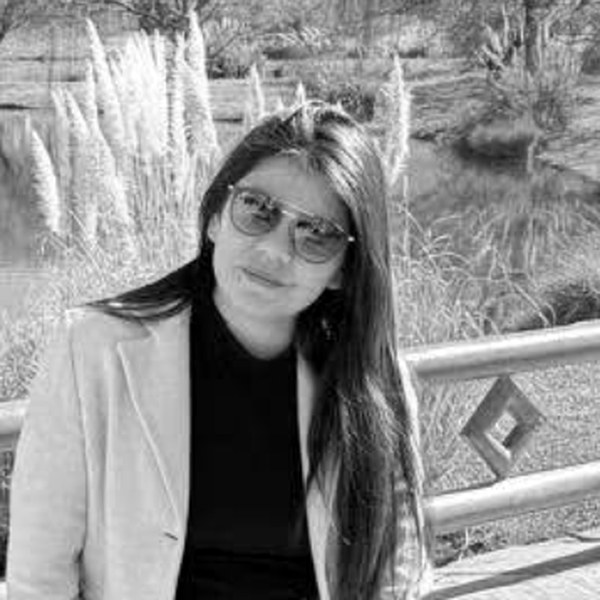
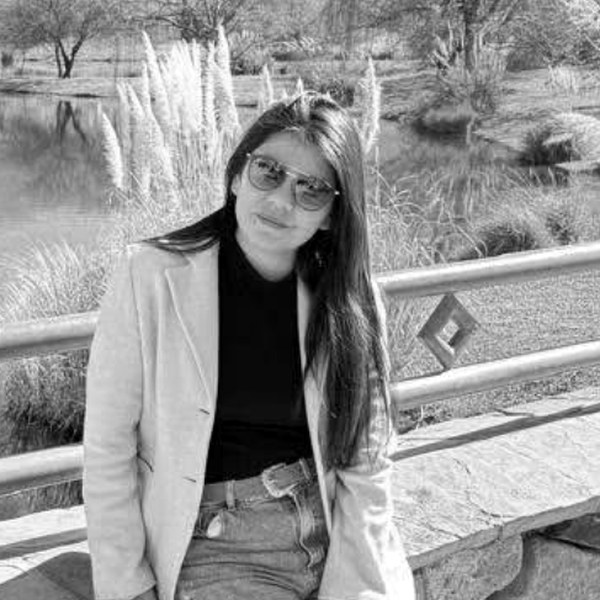
Equipo: las fotos entran de a una al llegar a la sección, el carrusel arranca recién ahí, pasa cada 6 s y se frena fuera de pantalla; Rocío y Josefina más alejadas para mejor nitidez
Claude-Session: https://claude.ai/code/session_01NxYopAPyeNSDw7qWxwq7yf

diff --git a/index.html b/index.html
@@ -192,6 +192,9 @@
   .persona__foto { position: relative; width: min(84%, 300px); aspect-ratio: 1; margin: 10px auto 0; border-radius: 50%; overflow: hidden; border: 6px solid #fff; outline: 3px solid var(--rojo); outline-offset: 4px; background: var(--negro) url("assets/papel-negro.jpg") center / cover; box-shadow: 0 10px 24px rgba(0,0,0,.18); display: flex; align-items: flex-end; justify-content: center; }
   .persona__foto img { width: 100%; height: 100%; object-fit: cover; object-position: center 20%; filter: grayscale(1); }
   .persona--sin-foto .persona__foto svg { width: 70%; height: auto; fill: rgba(255,255,255,.16); }
+  /* Entrada de a uno cuando la sección aparece en pantalla */
+  .equipo__pista .persona { opacity: 0; transform: translateY(40px) scale(.9); transition: opacity .9s ease, transform 1s cubic-bezier(.2,.8,.2,1); transition-delay: calc(var(--n, 0) * 380ms); }
+  .equipo__carrusel.entro .persona { opacity: 1; transform: none; }
   .persona h3 { position: relative; display: inline-block; margin-top: -16px; padding: 4px 14px; background: var(--rojo); color: #fff; font-size: clamp(13px, 1.7vw, 22px); font-weight: 900; }
   .persona p { margin-top: 6px; font-weight: 500; font-size: clamp(12px, 1.3vw, 16px); }
   .persona a { display: inline-block; margin-top: 2px; color: var(--rojo); font-weight: 700; text-decoration: none; font-size: clamp(12px, 1.3vw, 16px); }
@@ -309,6 +312,7 @@
   @media (prefers-reduced-motion: reduce) {
     html { scroll-behavior: auto; }
     .aparecer { opacity: 1; transform: none; transition: none; }
+    .equipo__pista .persona { opacity: 1; transform: none; transition: none; }
     .hero__flecha { animation: none; }
   }
 </style>
@@ -686,8 +690,8 @@
     .then(r => r.json())
     .then(gente => {
       // Sin foto todavía: se muestra una silueta con el nombre y el rol
-      document.getElementById("equipo-grid").innerHTML = gente.map(p => `
-        <article class="persona${p.foto ? "" : " persona--sin-foto"}">
+      document.getElementById("equipo-grid").innerHTML = gente.map((p, n) => `
+        <article class="persona${p.foto ? "" : " persona--sin-foto"}" style="--n:${Math.min(n, 3)}">
           <div class="persona__foto">${p.foto ? `<img src="${p.foto}" alt="${p.nombre}" loading="lazy">` : siluetaSvg}</div>
           <h3>${p.nombre}</h3>
           <p>${p.rol}</p>
@@ -708,7 +712,9 @@
       i = n > max ? 0 : n < 0 ? max : n;
       pista.style.transform = `translateX(-${i * (100 / visibles())}%)`;
     }
-    function auto() { clearInterval(timer); timer = setInterval(() => ir(i + 1), 3500); }
+    // Pasa cada 6 segundos, pero solo mientras la sección está a la vista.
+    let aLaVista = false;
+    function auto() { clearInterval(timer); if (aLaVista) timer = setInterval(() => ir(i + 1), 6000); }
     document.querySelectorAll(".eq-flecha").forEach(b => b.onclick = () => { ir(i + Number(b.dataset.dir)); auto(); });
     caja.addEventListener("mouseenter", () => clearInterval(timer));
     caja.addEventListener("mouseleave", auto);
@@ -716,7 +722,19 @@
     caja.addEventListener("touchstart", e => x0 = e.touches[0].clientX, { passive: true });
     caja.addEventListener("touchend", e => { if (x0 === null) return; const d = e.changedTouches[0].clientX - x0; if (Math.abs(d) > 40) { ir(i + (d < 0 ? 1 : -1)); auto(); } x0 = null; });
     addEventListener("resize", () => ir(i));
-    ir(0); auto();
+    ir(0);
+    // Cuando la sección aparece por primera vez, las fotos entran de a una y recién después arranca el carrusel.
+    let primeraVez = true;
+    new IntersectionObserver(([e]) => {
+      aLaVista = e.isIntersecting;
+      if (!aLaVista) { clearInterval(timer); return; }
+      if (primeraVez) {
+        primeraVez = false;
+        caja.classList.add("entro");
+        clearInterval(timer);
+        setTimeout(() => { pista.querySelectorAll(".persona").forEach(el => el.style.transitionDelay = "0s"); auto(); }, visibles() * 380 + 1100);
+      } else auto();
+    }, { threshold: 0.35 }).observe(caja);
   }
 
   // Carrusel de servicios
